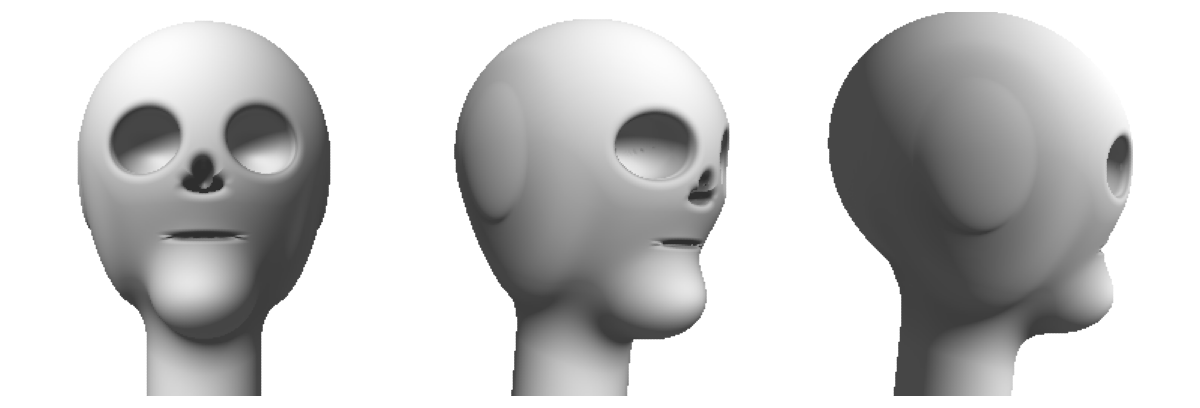
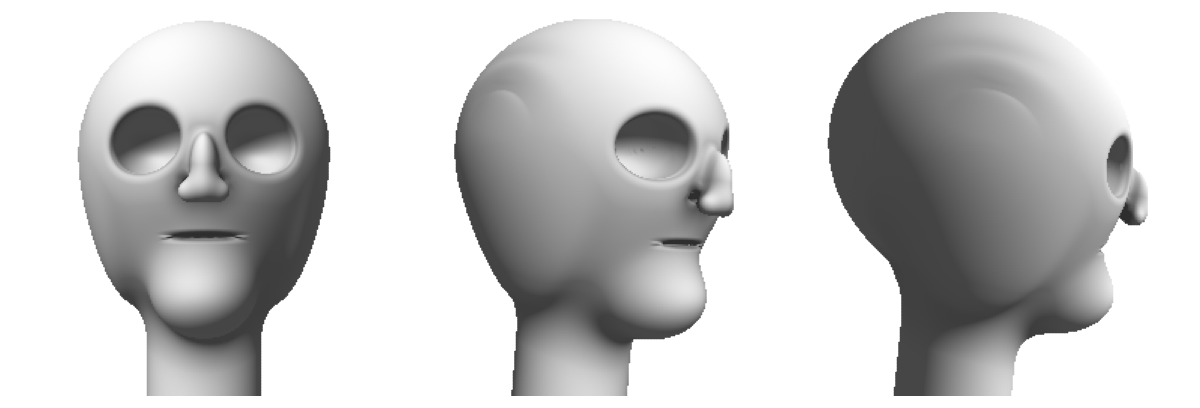
style: nose + ears as 3D geometry (survive head pivots)
Move nose and ears out of flat 2D marks into the style layer as 3D SDF form
(style3d.ts), composited with the skull and inked by the same G-buffer - so
their silhouette/crease lines come from real form and foreshorten/occlude
across front/three-quarter/profile. Nose = Loomis 5-plane wedge (dorsum + tip
bulb + alae + nostril carves); ear = flattened C (plate + concha bowl + lobe,
tilted back). Removed the ear from the core skull (ears are a style feature).
Shortened the nose (bridge starts at the eyes) and lightened skin shading.

Hair next: replace the carpet cap with a clump-resolved shell + lead/filler
strands (per the hair research synthesis).

diff --git a/face-lib/spike/style3d.ts b/face-lib/spike/style3d.ts
@@ -1,0 +1,69 @@
+// STYLE LAYER — 3D form features (nose, ears).
+//
+// Per the architecture: features with real volume must be GEOMETRY, not flat
+// 2D marks, or they won't foreshorten/occlude when the head pivots. The style
+// adds these SDF shapes onto the core skull at its anchor landmarks; the
+// renderer's G-buffer then gives their silhouette + crease lines for free,
+// correct from every angle. Surface-only marks (eyes, brows, lips, hair strands)
+// stay as 2D paint elsewhere.
+//
+// Anatomy from research/primitives-nose-ears-neck-brows.md:
+//   nose  = Loomis 5-plane wedge: dorsum (keel), side planes, base, two alae.
+//   ear   = flattened "C": helix rim + concha bowl + lobe ("question mark + comma").
+
+import type { Vec3 } from '../src/math/vec3.ts';
+import { sphere, ellipsoid, min, smin, smoothSubtract, rotate } from '../src/sdf/primitives.ts';
+import { construct, DEFAULT_HEAD, type HeadDial } from './head.ts';
+import { skull } from './skull.ts';
+
+const C = construct(DEFAULT_HEAD);
+const [RX, RY, RZ] = C.craniumRadii;
+const surfZ = (x: number, y: number) =>
+  RZ * Math.sqrt(Math.max(0, 1 - (x / RX) ** 2 - (y / RY) ** 2));
+
+// ---- nose: a wedge sitting on the maxilla, dorsum flowing into one tip bulb ----
+const noseSDF = (p: Vec3): number => {
+  const rootY = C.eyeY, baseY = C.noseBaseY;      // bridge starts at the eyes, not the brow
+  const midY = (rootY + baseY) / 2;
+  // dorsum/keel — a ridge from nasal root to tip, projecting forward
+  const dorsum = ellipsoid(p, [0, midY, surfZ(0, midY) + RZ * 0.05],
+    [RX * 0.09, (rootY - baseY) / 2 * 1.05, RZ * 0.11]);
+  // tip + two alae fused into ONE ball of the nose (no lumpy cascade)
+  const tipZ = surfZ(0, baseY) + RZ * 0.14;
+  const tip = sphere(p, [0, baseY + RX * 0.03, tipZ], RX * 0.085);
+  const ala = (sx: number) => sphere(p, [sx, baseY + RX * 0.01, tipZ - RZ * 0.03], RX * 0.07);
+  const bulb = smin(tip, smin(ala(-RX * 0.10), ala(RX * 0.10), 0.03), 0.04);
+  let nose = smin(dorsum, bulb, 0.04);
+  // nostrils — two small carves under the alae
+  const nostril = (sx: number) => sphere(p, [sx, baseY - RX * 0.01, tipZ - RZ * 0.05], RX * 0.03);
+  nose = smoothSubtract(nose, min(nostril(-RX * 0.085), nostril(RX * 0.085)), 0.015);
+  return nose;
+};
+
+// ---- ear: flattened C-shell, tilted back ~15°, helix rim + concha bowl + lobe ----
+const earSDF = (p: Vec3, sign: number): number => {
+  const earY = (C.browY + C.noseBaseY) / 2;
+  const earX = sign * RX * 0.9;
+  const earZ = -RZ * 0.04;
+  const half = (C.browY - C.noseBaseY) / 2;
+  // tilt the local frame back ~15° (top leans toward the occiput)
+  const lp = rotate([p[0] - earX, p[1] - earY, p[2] - earZ], [0, 0, 1], sign * 0.26);
+  const q: Vec3 = [lp[0] + earX, lp[1] + earY, lp[2] + earZ];
+  // ear plate: thin in X, oval in Y, deep in Z (the flattened C)
+  const plate = ellipsoid(q, [earX, earY, earZ], [RX * 0.05, half * 1.0, RZ * 0.19]);
+  // concha bowl carved from the outer face -> leaves the helix rim
+  const concha = ellipsoid(q, [earX + sign * RX * 0.03, earY + half * 0.05, earZ + RZ * 0.04],
+    [RX * 0.07, half * 0.52, RZ * 0.12]);
+  let ear = smoothSubtract(plate, concha, 0.02);
+  // lobe at the bottom (the comma)
+  const lobe = sphere(q, [earX, earY - half * 0.95, earZ], RX * 0.045);
+  return smin(ear, lobe, 0.03);
+};
+
+// Core skull + the style's 3D form features.
+export const styledHead = (p: Vec3, dial: Partial<HeadDial> = {}): number => {
+  let h = skull(p, dial);
+  h = smin(h, noseSDF(p), 0.04);
+  h = smin(h, min(earSDF(p, -1), earSDF(p, 1)), 0.05);
+  return h;
+};

diff --git a/face-lib/spike/ink-head.ts b/face-lib/spike/ink-head.ts
@@ -20,7 +20,7 @@ import { mkdirSync } from 'node:fs';
 import type { Vec3 } from '../src/math/vec3.ts';
 import { add, sub, dot, normalize, rotateYX } from '../src/math/vec3.ts';
 import { DEFAULT_HEAD, construct } from './head.ts';
-import { skull } from './skull.ts';
+import { styledHead } from './style3d.ts';
 
 // proof/core.mjs is a self-contained rasterizer + hand-drawn stroke + PNG writer.
 const require = createRequire(import.meta.url);
@@ -431,14 +431,10 @@ const drawFace = (cv: any, cam: Camera, g: GBuf, ss: number) => {
     const browY = HEAD_C.eyeY + es * 0.62;             // just above the eye, not at the ridge
     drawBrow(cv, pc([ex - sign * es * 0.5, browY, surfZc(es, browY)]),
       pc([ex + sign * es * 0.5, browY, surfZc(es, browY)]), 320 + sign);
-    drawEar(cv, pc([sign * HEAD_C.craniumRadii[0], HEAD_C.browY, 0]),
-      pc([sign * HEAD_C.craniumRadii[0], HEAD_C.noseBaseY, 0]), sign, 340 + sign);
   }
-  const nz = surfZc(0, HEAD_C.noseBaseY);
-  drawNose(cv, pc([0, HEAD_C.browY, surfZc(0, HEAD_C.browY)]),
-    pc([0, HEAD_C.noseBaseY, nz + HEAD_C.craniumRadii[2] * 0.12]),
-    pc([-es * 0.42, HEAD_C.noseBaseY, nz]), pc([es * 0.42, HEAD_C.noseBaseY, nz]), 360);
-  const mw = es * HEAD_C.eyeSpacing > 0 ? es * 0.85 : es;
+  // nose + ears are now 3D form (style3d.ts), inked by the G-buffer like the
+  // skull — not drawn here. Only surface marks remain in 2D.
+  const mw = es * 0.85;
   drawMouth(cv, pc([-mw, HEAD_C.mouthY, surfZc(mw, HEAD_C.mouthY)]),
     pc([mw, HEAD_C.mouthY, surfZc(mw, HEAD_C.mouthY)]), 380);
 };
@@ -477,7 +473,7 @@ const renderView = (sdf: SDF, yaw: number, pitch: number) => {
   // not draw the eye.
   for (let y = 0; y < IMG; y++) for (let x = 0; x < IMG; x++) {
     const i = y * IMG + x;
-    const a = Math.min(0.2, (cavity[i] - 0.02) * 5);     // very soft skin shading
+    const a = Math.min(0.12, (cavity[i] - 0.03) * 4);    // faint skin shading only
     if (a <= 0.02) continue;
     cv.stamp((x + 0.5) * SS, (y + 0.5) * SS, SS * 0.7, [150, 138, 134], a);
   }
@@ -519,7 +515,7 @@ const renderForm = (sdf: SDF, yaw: number, pitch: number) => {
 const main = () => {
   const outDir = '/home/user/harmony/proof/out';
   mkdirSync(outDir, { recursive: true });
-  const sdf: SDF = (p) => skull(p);
+  const sdf: SDF = (p) => styledHead(p);
   const views: [string, number, number][] = [
     ['front', 0, 0.16],
     ['tq', -Math.PI / 4, 0.16],

diff --git a/face-lib/spike/skull.ts b/face-lib/spike/skull.ts
@@ -95,14 +95,10 @@ export const skull = (p: Vec3, dial: Partial<HeadDial> = {}): number => {
   const mouthCut = ellipsoid(p, [0, c.mouthY, surfZ(0, c.mouthY) + rz * 0.02], [mouthW * 0.5, ry * d.mouthThickness, rz * 0.08]);
   head = smoothSubtract(head, mouthCut, 0.02);
 
-  // 6. Ears — flattened C on the side plane, brow-line to nose-base (Loomis),
-  //    neutral anchor.
-  const earY = (c.browY + c.noseBaseY) / 2;
-  const ear = (sx: number) => ellipsoid(
-    p, [sx, earY, -rz * 0.12],
-    [rx * d.earWidth * 0.5, (c.browY - c.noseBaseY) / 2 * 1.1, rz * 0.26],
-  );
-  head = smin(head, min(ear(-rx * 0.98), ear(rx * 0.98)), 0.05);
+  // NOTE: ears and the fleshy nose live in the STYLE layer now, not the core.
+  // Not every style has ears, and features with volume need 3D geometry that
+  // rides on the core anchors so they foreshorten/occlude across head turns.
+  // The core keeps only the neutral skull (incl. the nasal aperture anchor).
 
   // 7. Neck — Bridgman cylinder the head balances on, set back and leaning
   //    forward from the nape. (Carried; read correctly.)
